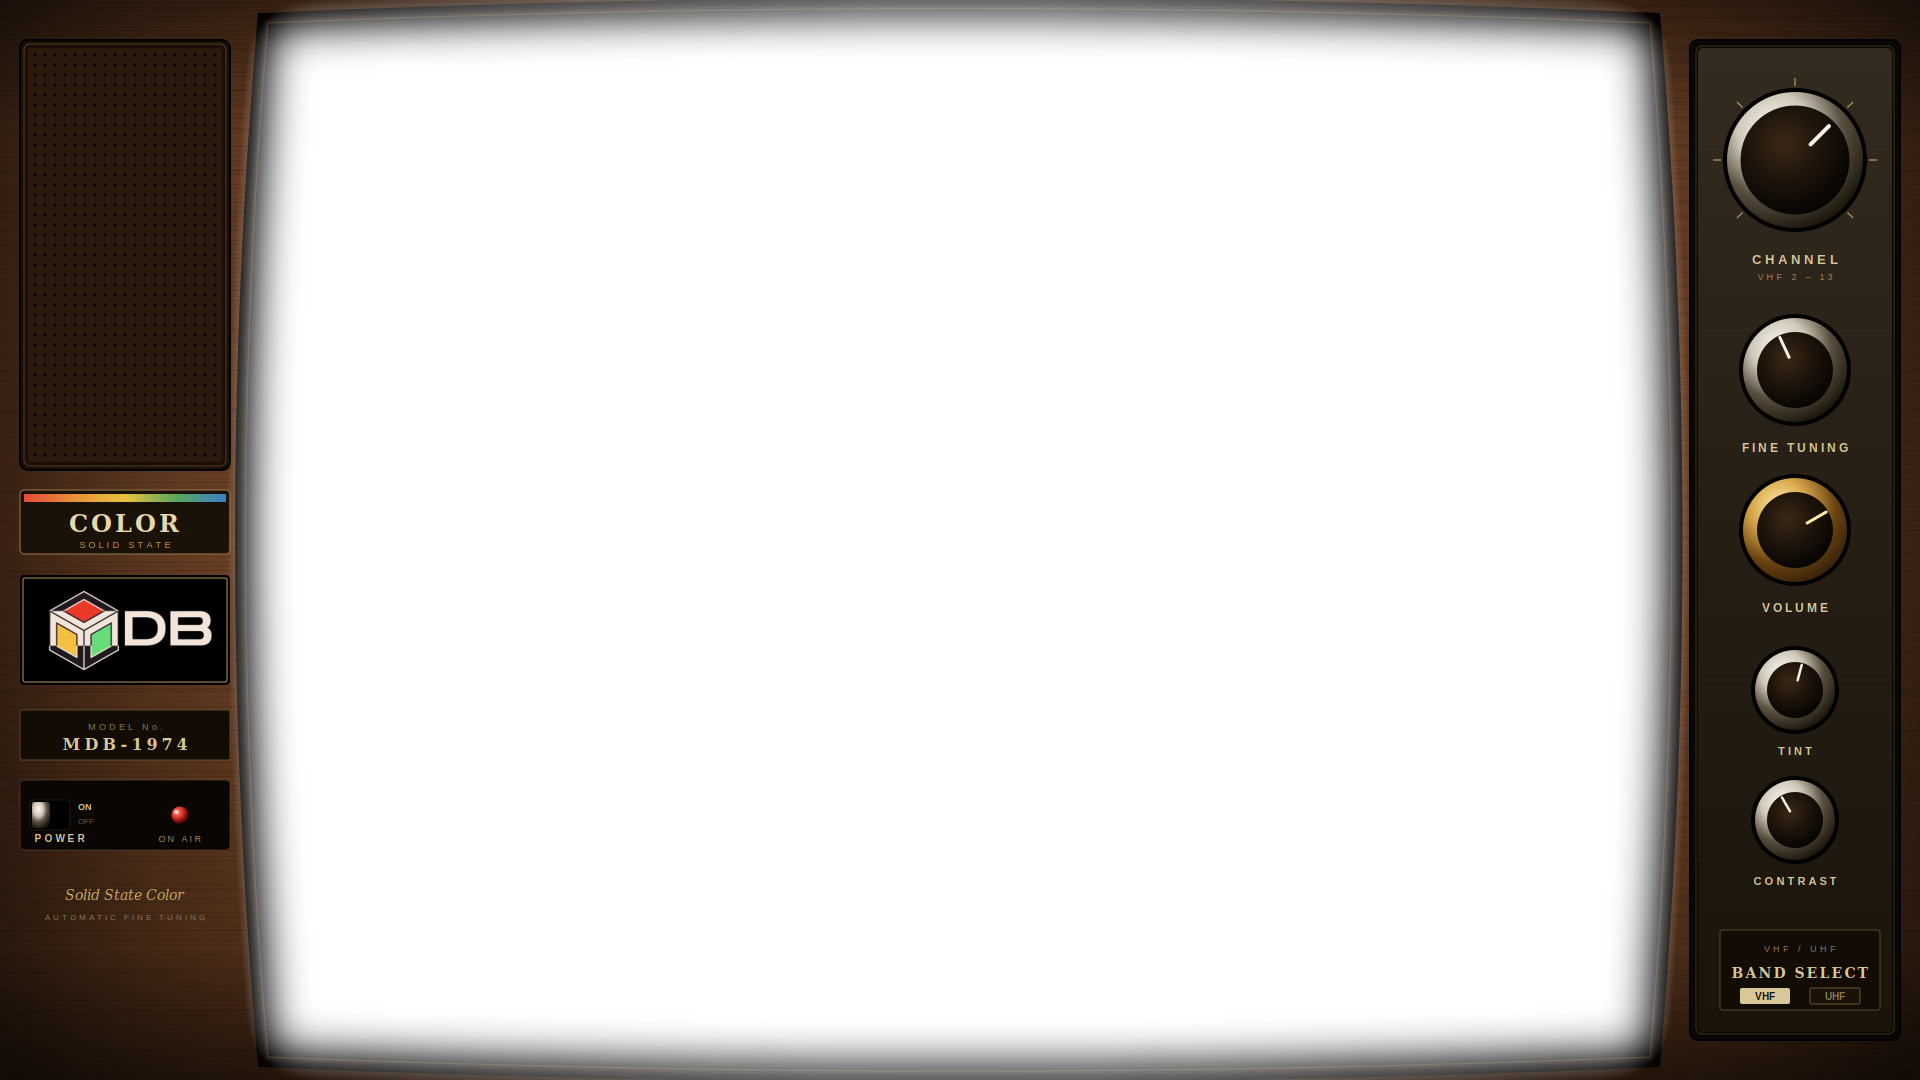
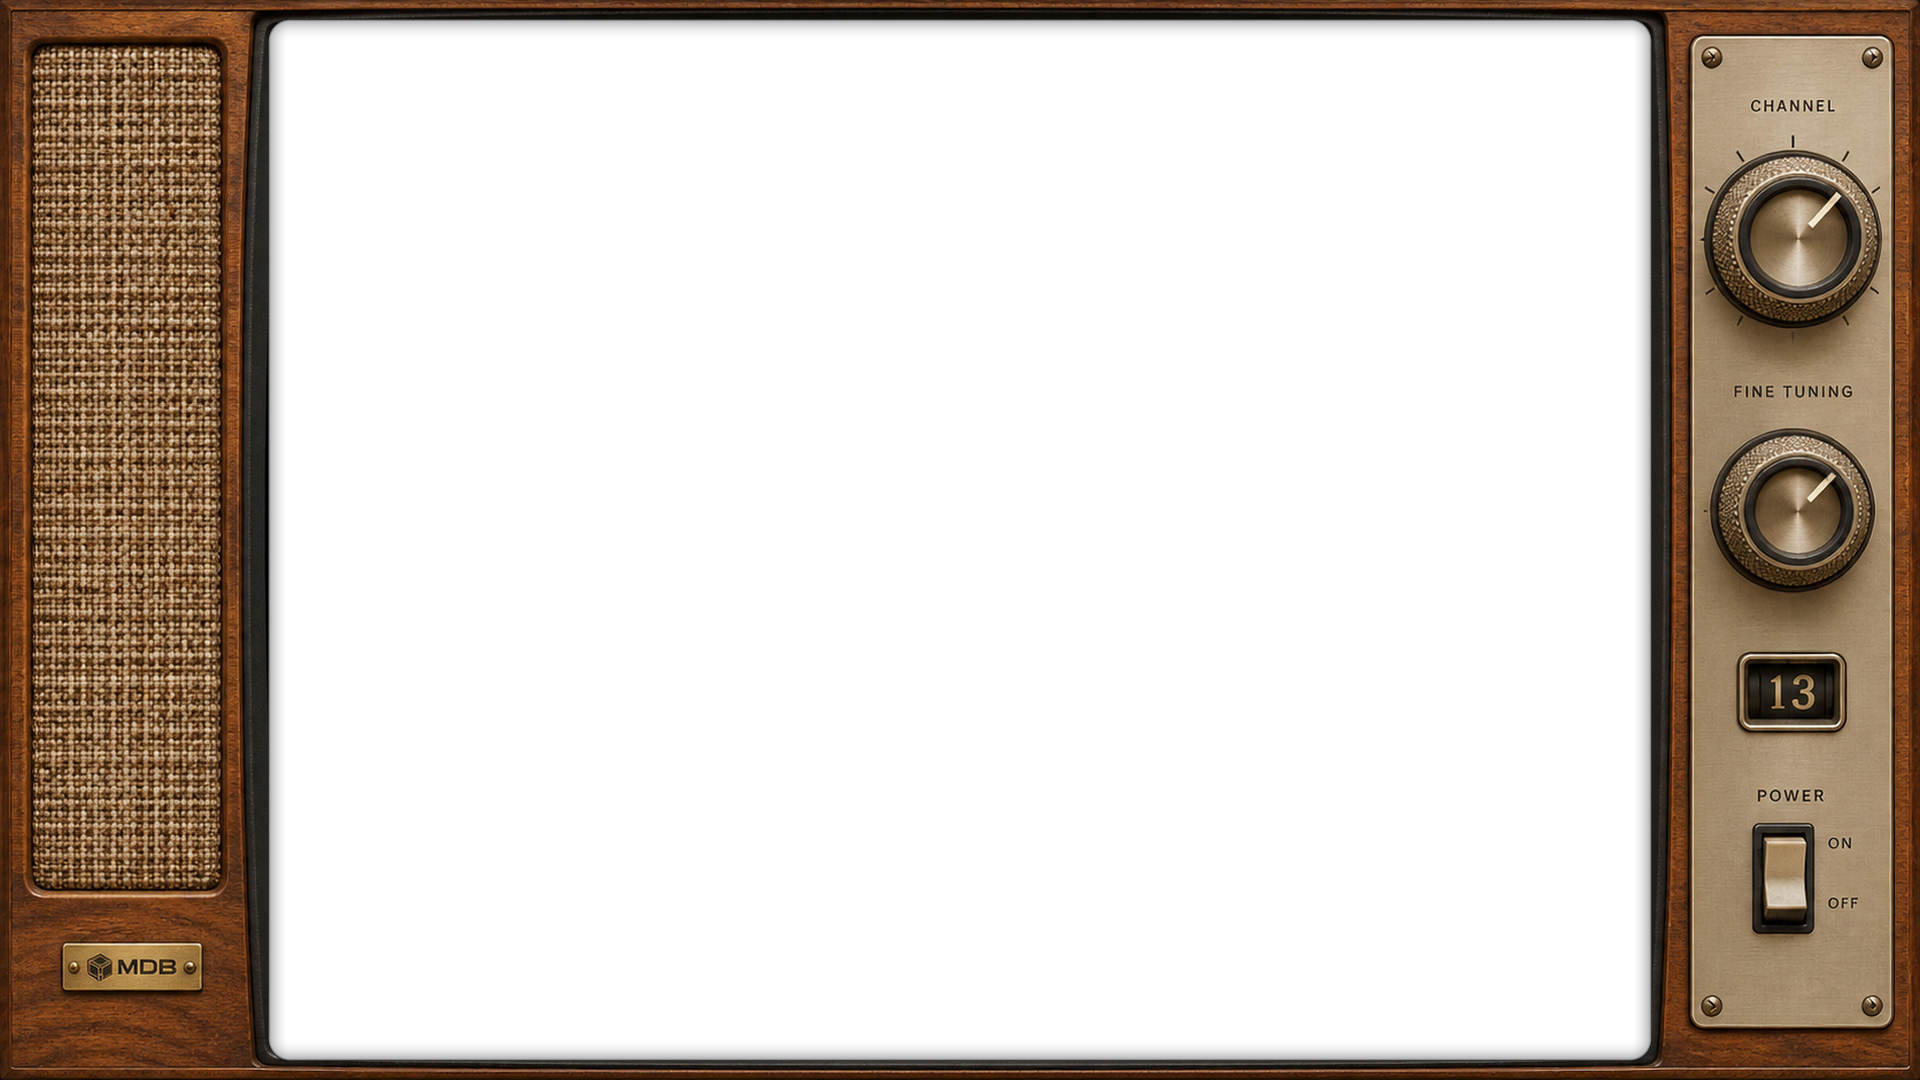
Fit the complete 4:3 picture inside all seven solid CRT bezels

diff --git a/magic_dingus_box_cpp/src/video/gst_renderer.cpp b/magic_dingus_box_cpp/src/video/gst_renderer.cpp
@@ -27,9 +27,10 @@ static const char* fragment_shader_rgba = R"(
     precision mediump float;
     out vec4 FragColor;
     in vec2 TexCoord;
+    uniform vec4 sampleBounds;
     uniform sampler2D textureY; // Used as main texture for RGBA
     void main() {
-        FragColor = texture(textureY, TexCoord);
+        FragColor = texture(textureY, clamp(TexCoord, sampleBounds.xy, sampleBounds.zw));
     }
 )";
 
@@ -40,14 +41,16 @@ static const char* fragment_shader_i420 = R"(
     precision mediump float;
     out vec4 FragColor;
     in vec2 TexCoord;
+    uniform vec4 sampleBounds;
     uniform sampler2D textureY;
     uniform sampler2D textureU;
     uniform sampler2D textureV;
     
     void main() {
-        float y = texture(textureY, TexCoord).r;
-        float u = texture(textureU, TexCoord).r - 0.5;
-        float v = texture(textureV, TexCoord).r - 0.5;
+        vec2 sampleUV = clamp(TexCoord, sampleBounds.xy, sampleBounds.zw);
+        float y = texture(textureY, sampleUV).r;
+        float u = texture(textureU, sampleUV).r - 0.5;
+        float v = texture(textureV, sampleUV).r - 0.5;
         
         float r = y + 1.402 * v;
         float g = y - 0.344136 * u - 0.714136 * v;
@@ -64,12 +67,14 @@ static const char* fragment_shader_nv12 = R"(
     precision mediump float;
     out vec4 FragColor;
     in vec2 TexCoord;
+    uniform vec4 sampleBounds;
     uniform sampler2D textureY;
     uniform sampler2D textureU; // Actually UV plane
     
     void main() {
-        float y = texture(textureY, TexCoord).r;
-        vec2 uv = texture(textureU, TexCoord).rg - 0.5; // NV12 has UV interleaved
+        vec2 sampleUV = clamp(TexCoord, sampleBounds.xy, sampleBounds.zw);
+        float y = texture(textureY, sampleUV).r;
+        vec2 uv = texture(textureU, sampleUV).rg - 0.5; // NV12 has UV interleaved
         
         float u = uv.x;
         float v = uv.y;
@@ -170,7 +175,8 @@ void GstRenderer::set_viewport_size(uint32_t width, uint32_t height) {
 }
 
 void GstRenderer::set_picture(IRect target_fb, bool crop, IRect opening_fb,
-                              double target_aspect) {
+                              double target_aspect, bool solid_rim) {
+    picture_solid_rim_ = solid_rim;
     picture_mode_ = true;
     picture_target_ = target_fb;
     picture_crop_ = crop;
@@ -285,6 +291,7 @@ void GstRenderer::update_shader(int format) {
     
     // Set uniforms
     glUseProgram(program_id_);
+    sample_bounds_location_ = glGetUniformLocation(program_id_, "sampleBounds");
     glUniform1i(glGetUniformLocation(program_id_, "textureY"), 0);
     if (format == 1) {
         glUniform1i(glGetUniformLocation(program_id_, "textureU"), 1);
@@ -566,18 +573,24 @@ void GstRenderer::apply_picture_placement() {
     // nothing outside it is touched.
     if (!(p.viewport == picture_target_)) {
         glEnable(GL_SCISSOR_TEST);
-        glScissor(picture_target_.x, gl_y(picture_target_),
-                  picture_target_.w, picture_target_.h);
+        const Placement background{picture_target_, {0, 0, 1, 1}};
+        const IRect clear = picture_solid_rim_ ? extend_to_bezel_shadow(
+            background, picture_target_, width_, height_).viewport : picture_target_;
+        glScissor(clear.x, gl_y(clear), clear.w, clear.h);
         glClearColor(0.0f, 0.0f, 0.0f, 1.0f);
         glClear(GL_COLOR_BUFFER_BIT);
         glDisable(GL_SCISSOR_TEST);
     }
 
-    set_quad_tex(p.tex);
-    glViewport(p.viewport.x, gl_y(p.viewport), p.viewport.w, p.viewport.h);
+    glUniform4f(sample_bounds_location_, p.tex.u0, p.tex.v0, p.tex.u1, p.tex.v1);
+    const Placement draw = picture_solid_rim_
+        ? extend_to_bezel_shadow(p, picture_target_, width_, height_) : p;
+    set_quad_tex(draw.tex);
+    glViewport(draw.viewport.x, gl_y(draw.viewport), draw.viewport.w, draw.viewport.h);
 }
 
 void GstRenderer::apply_media_browser_viewport() {
+    glUniform4f(sample_bounds_location_, 0.f, 0.f, 1.f, 1.f);
     set_quad_tex(TexRect{0.0f, 0.0f, 1.0f, 1.0f});
 
     // Working canvas — full screen by default, OR the explicit inset
@@ -708,6 +721,7 @@ void GstRenderer::apply_media_browser_viewport() {
 void GstRenderer::render_quad() {
     if (program_id_ == 0) return;
 
+    glUseProgram(program_id_);
     if (picture_mode_) {
         apply_picture_placement();
     } else {
@@ -730,8 +744,6 @@ void GstRenderer::render_quad() {
     // Disable depth test to ensure we draw over everything (or background)
     glDisable(GL_DEPTH_TEST);
     
-    glUseProgram(program_id_);
-
     glActiveTexture(GL_TEXTURE0);
     glBindTexture(GL_TEXTURE_2D, texture_ids_[0]);
 

diff --git a/magic_dingus_box_cpp/src/retroarch/launch_contract.cpp b/magic_dingus_box_cpp/src/retroarch/launch_contract.cpp
@@ -312,32 +312,18 @@ void write_video_config(std::ostream& out, const LaunchOptions& options) {
         // picture 251px right and put the bezel's control panel inside the
         // playfield. The opening is centred to within 3px of the screen
         // anyway (left margin 251, right 254), so centring IS the alignment.
-        out << "custom_viewport_x = \"0\"\n";
-        out << "custom_viewport_y = \"0\"\n";
-        // FILL THE HEIGHT, KEEP THE SHAPE. Height is always the full 1080 so
-        // the picture touches top and bottom on every core; width is whatever
-        // that core's true aspect demands, so geometry is never stretched.
-        //
-        // For everything without a border to crop this is 1440x1080 — exact
-        // 4:3, no rounding. Only N64 titles carrying a measured overscan crop
-        // come out wider, because removing a lopsided border leaves a shape
-        // that is no longer 4:3; forcing that back into a 4:3 box is what
-        // squeezed the picture by up to 7% on F-Zero X and GoldenEye.
-        //
-        // Running wider than the bezel's opening (measured x 251..1665) is
-        // fine and deliberate. The bezel is an OVERLAY drawn on top of the
-        // video, so the excess tucks under the frame rather than spilling
-        // onto the artwork — which is exactly what a real CRT did, overscanning
-        // past the visible edge of the tube. Sizing the picture to stop at the
-        // cutout instead would leave a visible sliver of background between
-        // picture and frame.
-        const int vp_h = 1080;
-        int vp_w = static_cast<int>(std::lround(vp_h * options.content_aspect));
-        // Never wider than the panel: past that RetroArch would letterbox to
-        // fit and we would lose the fill-the-height guarantee entirely.
-        vp_w = std::min(vp_w, 1920);
-        out << "custom_viewport_width = \"" << vp_w << "\"\n";
-        out << "custom_viewport_height = \"" << vp_h << "\"\n";
+        video::IRect vp{0, 0, std::min(1920, static_cast<int>(
+            std::lround(1080 * options.content_aspect))), 1080};
+        vp.x = (1920 - vp.w) / 2;
+        if (options.bezel_picture) {
+            // Preserve the core's post-overscan aspect, including wide N64 titles.
+            vp = video::place_picture(options.content_aspect, {240, 0, 1440, 1080},
+                                      4.0 / 3.0, *options.bezel_picture, false).viewport;
+        }
+        out << "custom_viewport_x = \"" << vp.x - (1920 - vp.w) / 2 << "\"\n";
+        out << "custom_viewport_y = \"" << vp.y - (1080 - vp.h) / 2 << "\"\n";
+        out << "custom_viewport_width = \"" << vp.w << "\"\n";
+        out << "custom_viewport_height = \"" << vp.h << "\"\n";
         // 23 = ASPECT_RATIO_CUSTOM — the only index that makes RetroArch use
         // the viewport above. This said 22 with a comment claiming that meant
         // "custom viewport"; 22 is ASPECT_RATIO_CORE ("Core provided"), which

diff --git a/magic_dingus_box_cpp/tests/app/test_bezel_catalog.cpp b/magic_dingus_box_cpp/tests/app/test_bezel_catalog.cpp
@@ -9,6 +9,7 @@
 
 #include <catch2/catch_test_macros.hpp>
 
+#include <algorithm>
 #include <cstdlib>
 #include <filesystem>
 #include <fstream>
@@ -37,13 +38,12 @@ struct Box {
     int x = 0, y = 0, w = 0, h = 0;
 };
 
-// Bounding box of the pixels with alpha < 16 — the window the video shows
-// through. All zero when the image has no such pixel.
-Box transparent_box(const unsigned char* rgba, int w, int h) {
+// Bounding box of the glass at the specified shadow opacity.
+Box transparent_box(const unsigned char* rgba, int w, int h, int threshold) {
     int min_x = w, min_y = h, max_x = -1, max_y = -1;
     for (int y = 0; y < h; ++y) {
         for (int x = 0; x < w; ++x) {
-            if (rgba[(static_cast<size_t>(y) * w + x) * 4 + 3] >= 16) continue;
+            if (rgba[(static_cast<size_t>(y) * w + x) * 4 + 3] >= threshold) continue;
             if (x < min_x) min_x = x;
             if (x > max_x) max_x = x;
             if (y < min_y) min_y = y;
@@ -195,7 +195,32 @@ TEST_CASE("every shipped bezel declares the opening its image shows through",
         unsigned char* rgba =
             stbi_load((kBezelDir / b.file).string().c_str(), &w, &h, &channels, 4);
         REQUIRE(rgba != nullptr);
-        const Box m = transparent_box(rgba, w, h);
+        // At the 95% picture edge the contact shadow has alpha 33. The
+        // rounded corners may darken to 65, but even a caption touching
+        // the very corner should retain at least 74% of its brightness.
+        const Box m = transparent_box(rgba, w, h, b.solid_rim ? 35 : 16);
+        if (b.solid_rim) {
+            REQUIRE(w == 1920);
+            REQUIRE(h == 1080);
+            CHECK(b.opening_x == 276);
+            CHECK(b.opening_y == 27);
+            CHECK(b.opening_w == 1368);
+            CHECK(b.opening_h == 1026);
+            unsigned max_picture_alpha = 0;
+            unsigned min_cabinet_alpha = 255;
+            for (int y = 0; y < h; ++y) {
+                for (int x = 0; x < w; ++x) {
+                    const unsigned a = rgba[(static_cast<size_t>(y) * w + x) * 4 + 3];
+                    if (x >= 276 && x < 1644 && y >= 27 && y < 1053) {
+                        max_picture_alpha = std::max(max_picture_alpha, a);
+                    } else if (x < 268 || x >= 1652 || y < 19 || y >= 1061) {
+                        min_cabinet_alpha = std::min(min_cabinet_alpha, a);
+                    }
+                }
+            }
+            CHECK(max_picture_alpha <= 66);
+            CHECK(min_cabinet_alpha == 255);
+        }
         stbi_image_free(rgba);
 
         INFO("measured opening x" << m.x << " y" << m.y << " w" << m.w

diff --git a/magic_dingus_box_cpp/src/video/gst_renderer.h b/magic_dingus_box_cpp/src/video/gst_renderer.h
@@ -46,11 +46,12 @@ public:
     // TOP-LEFT origin, shown at target_aspect (4:3 by default). crop covers the
     // target; otherwise the whole frame fits inside opening_fb (the
     // bezel's window, or target_fb without one). Black inside the target
-    // where the picture does not reach; nothing is drawn outside it. The
+    // where the picture does not reach. A solid rim extends only the edge
+    // samples into the narrow shadow bordering the picture. The
     // render inset and aspect-preserve settings are ignored until
     // clear_picture().
     void set_picture(IRect target_fb, bool crop, IRect opening_fb,
-                     double target_aspect = 4.0 / 3.0);
+                     double target_aspect = 4.0 / 3.0, bool solid_rim = false);
 
     // Leave picture mode: back to the Media Browser paths below
     // (aspect-preserve and its render inset), unchanged.
@@ -128,6 +129,7 @@ private:
     // OpenGL resources
     GLuint texture_ids_[3]; // Support up to 3 planes (Y, U, V)
     GLuint program_id_;
+    GLint sample_bounds_location_ = -1;
     GLuint vao_id_;
     GLuint vbo_id_;
     
@@ -147,6 +149,7 @@ private:
     // Picture mode (set_picture / clear_picture).
     bool picture_mode_ = false;
     bool picture_crop_ = true;
+    bool picture_solid_rim_ = false;
     double picture_target_aspect_ = 4.0 / 3.0;
     IRect picture_target_{0, 0, 0, 0};
     IRect picture_opening_{0, 0, 0, 0};

diff --git a/magic_dingus_box_cpp/src/retroarch/launch_contract.h b/magic_dingus_box_cpp/src/retroarch/launch_contract.h
@@ -10,6 +10,7 @@
 
 #include "app/app_state.h"
 #include "sink_suspension.h"
+#include "video/picture_placement.h"
 
 namespace retroarch {
 
@@ -29,15 +30,14 @@ enum class SessionWatchdog { Arm, Ping, Disarm };
 struct LaunchOptions {
     app::DisplayMode display_mode = app::DisplayMode::CRT_NATIVE;
     std::string bezel_file;
+    std::optional<video::IRect> bezel_picture;  // Solid-rim art, in 1920x1080 coordinates.
     // Video driver for this core. Set from the core name at launch
     // (see renderer_for_core). Defaults to Vulkan for the existing
     // 2D/PS1-class lineup.
     Renderer renderer = Renderer::Vulkan;
     // Display aspect of the picture this core will actually hand over, AFTER
-    // any per-title overscan crop. The viewport is sized to fill the screen
-    // HEIGHT at this ratio, so the picture always touches top and bottom and
-    // its geometry is never stretched; anything wider than the bezel's
-    // opening tucks under the frame, which is drawn over the video.
+    // any per-title overscan crop. Solid-rim bezels fit that aspect inside
+    // bezel_picture; the legacy viewport fills the screen height.
     //
     // 4:3 for everything that has no border to crop — Dreamcast, PS1, SNES
     // and the rest all land here. Only the N64 titles with a measured crop

diff --git a/magic_dingus_box_cpp/tests/video/test_picture_placement.cpp b/magic_dingus_box_cpp/tests/video/test_picture_placement.cpp
@@ -192,3 +192,20 @@ TEST_CASE("whole and fill films use the whole widescreen output", "[picture_plac
     CHECK(video::place_picture(4.0/3, output, 16.0/9, output, false).viewport ==
           video::IRect{240, 0, 1440, 1080});
 }
+
+TEST_CASE("the solid bezel repeats the outer samples under the shadow at each display size") {
+    for (int width : {1920, 1280}) {
+        const int height = width * 9 / 16;
+        const auto opening = video::scale_image_rect({276, 27, 1368, 1026}, 1920, 1080, width, height);
+        const auto picture = video::place_picture(4.0 / 3.0, opening, 4.0 / 3.0, opening, true);
+        const auto draw = video::extend_to_bezel_shadow(picture, opening, width, height);
+        const int border = width == 1920 ? 8 : 5;
+        CHECK(draw.viewport.x == opening.x - border);
+        CHECK(draw.viewport.h == opening.h + border * 2);
+        // At the first source edge the extrapolated coordinate is exactly zero.
+        CHECK(draw.tex.u0 + border * (draw.tex.u1 - draw.tex.u0) / draw.viewport.w
+              == Approx(0).margin(1e-6));
+        const auto wide = video::place_picture(16.0 / 9.0, opening, 4.0 / 3.0, opening, false);
+        CHECK(video::extend_to_bezel_shadow(wide, opening, width, height).viewport.h == wide.viewport.h);
+    }
+}

diff --git a/magic_dingus_box_cpp/tests/retroarch/test_launch_contract.cpp b/magic_dingus_box_cpp/tests/retroarch/test_launch_contract.cpp
@@ -1090,3 +1090,21 @@ TEST_CASE("renderer_for_core routes N64 cores to GL, others to Vulkan",
     REQUIRE(retroarch::renderer_for_core("snes9x2010_libretro") == Renderer::Vulkan);
     REQUIRE(retroarch::renderer_for_core("fbneo_libretro") == Renderer::Vulkan);
 }
+
+TEST_CASE("solid bezel games fit the centered picture opening at their actual aspect",
+          "[retroarch][video]") {
+    retroarch::LaunchOptions opts;
+    opts.display_mode = app::DisplayMode::MODERN_TV;
+    opts.bezel_file = "mdb_1974.png";
+    opts.bezel_picture = video::IRect{276, 27, 1368, 1026};
+    for (double aspect : {4.0 / 3.0, 1.426}) {
+        opts.content_aspect = aspect;
+        std::ostringstream output;
+        retroarch::write_video_config(output, opts);
+        require_line(output.str(), "custom_viewport_width = \"1368\"");
+        require_line(output.str(), "custom_viewport_height = \"" +
+                     std::to_string(static_cast<int>(std::lround(1368 / aspect))) + "\"");
+        require_line(output.str(), "custom_viewport_x = \"0\"");
+        require_line(output.str(), "custom_viewport_y = \"0\"");
+    }
+}

diff --git a/magic_dingus_box_cpp/src/video/picture_placement.h b/magic_dingus_box_cpp/src/video/picture_placement.h
@@ -177,4 +177,17 @@ inline Placement place_picture(double src_aspect, IRect target,
     return Placement{viewport, kFullFrame};
 }
 
+// The sampled picture reaches the inner shadow through an 8 px strip
+// at 1080p. Extrapolate UVs across it; the shader clamps to the source
+// crop so captions stay in place. Letterbox and pillarbox bars stay black.
+inline Placement extend_to_bezel_shadow(Placement p, IRect opening, int fb_w, int fb_h) {
+    if (p.viewport.w <= 0 || p.viewport.h <= 0) return p;
+    const int dx = p.viewport.w == opening.w ? std::lround(8.0 * fb_w / 1920) : 0;
+    const int dy = p.viewport.h == opening.h ? std::lround(8.0 * fb_h / 1080) : 0;
+    const float du = (p.tex.u1 - p.tex.u0) * dx / p.viewport.w;
+    const float dv = (p.tex.v1 - p.tex.v0) * dy / p.viewport.h;
+    return {{p.viewport.x - dx, p.viewport.y - dy, p.viewport.w + 2 * dx, p.viewport.h + 2 * dy},
+            {p.tex.u0 - du, p.tex.v0 - dv, p.tex.u1 + du, p.tex.v1 + dv}};
+}
+
 }  // namespace video

diff --git a/magic_dingus_box_cpp/src/main.cpp b/magic_dingus_box_cpp/src/main.cpp
@@ -2651,7 +2651,12 @@ int main(int /* argc */, char* /* argv */[]) {
                     picture_target = video::IRect{w.x, w.y, w.w, w.h};
                     opening = picture_target;
                 }
-                gst_renderer.set_picture(picture_target, crop, opening, target_aspect);
+                const bool solid_rim = drawn_bezel && drawn_bezel->solid_rim &&
+                                       guide_frame_view == nullptr && opening.w > 0 && opening.h > 0;
+                if (solid_rim) {
+                    picture_target = opening;
+                }
+                gst_renderer.set_picture(picture_target, crop, opening, target_aspect, solid_rim);
             } else {
                 gst_renderer.clear_picture();
             }

diff --git a/magic_dingus_box_cpp/src/app/controller.cpp b/magic_dingus_box_cpp/src/app/controller.cpp
@@ -335,7 +335,12 @@ utils::Result<> Controller::load_item_media(AppState& state, const app::Playlist
         {
             int idx = state.display_settings.bezel_index;
             if (idx >= 0 && idx < static_cast<int>(state.available_bezels.size())) {
-                opts.bezel_file = state.available_bezels[idx].file;
+                const auto& bezel = state.available_bezels[idx];
+                opts.bezel_file = bezel.file;
+                if (!bezel.file.empty() && bezel.solid_rim) {
+                    opts.bezel_picture = video::IRect{bezel.opening_x, bezel.opening_y,
+                                                      bezel.opening_w, bezel.opening_h};
+                }
             }
         }
 

diff --git a/magic_dingus_box_cpp/src/app/bezel_catalog.cpp b/magic_dingus_box_cpp/src/app/bezel_catalog.cpp
@@ -37,6 +37,7 @@ std::string read_opening(const Json::Value& entry, BezelInfo& bezel) {
         return "extends past the " + std::to_string(kBezelImageWidth) + "x" +
                std::to_string(kBezelImageHeight) + " image";
     }
+    bezel.solid_rim = entry["solid_rim"].isBool() && entry["solid_rim"].asBool();
     bezel.has_opening = true;
     bezel.opening_x = x;
     bezel.opening_y = y;

diff --git a/magic_dingus_box_cpp/src/app/app_state.h b/magic_dingus_box_cpp/src/app/app_state.h
@@ -171,6 +171,7 @@ struct BezelInfo {
     // for procedural and for any entry without a usable opening.
     bool has_opening = false;
     int opening_x = 0, opening_y = 0, opening_w = 0, opening_h = 0;
+    bool solid_rim = false;  // Fullscreen pictures and games fit this opening.
 };
 
 } // namespace app
